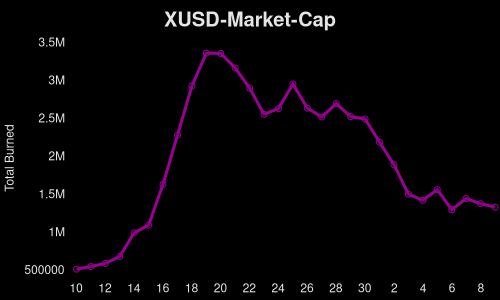
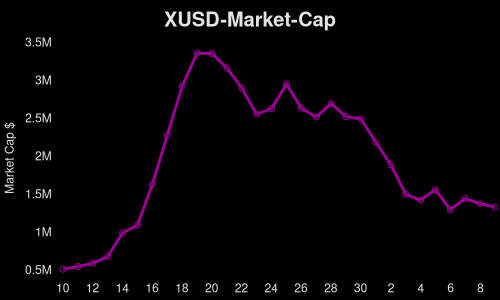
..

diff --git a/charts.js b/charts.js
@@ -676,7 +676,7 @@ async function getMarketCap(blockNumbers, token) {
   // Fetch price data
   const priceResponse = await axiosInstance.post(graphEndpoint, { query: priceQuery }, {
     headers: { 'Content-Type': 'application/json' },
-    timeout: 25000
+    timeout: 30000
   });
   console.log('priceResponse = ', priceResponse);
 
@@ -722,7 +722,7 @@ async function generateMCapChart(title, token, isHourly = false, ticks = 'day') 
     labels: labels,
     datasets: [
       {
-        label: 'Market Cap',
+        label: 'Market Cap $',
         data: data,
         borderColor: token.featureColour,
         // backgroundColor: 'rgba(75, 192, 192, 0.2)',
@@ -760,12 +760,12 @@ async function generateMCapChart(title, token, isHourly = false, ticks = 'day') 
           position: 'left',
           title: {
             display: true,
-            text: 'Market Cap',
+            text: 'Market Cap $',
             color: colour
           },
           ticks: {
             callback: function(value) {
-              return value >= 1000000 ? (value / 1000000) + 'M' : value;
+              return value >= 500000 ? (value / 1000000) + 'M' : value;
             },
             color: colour
           },
